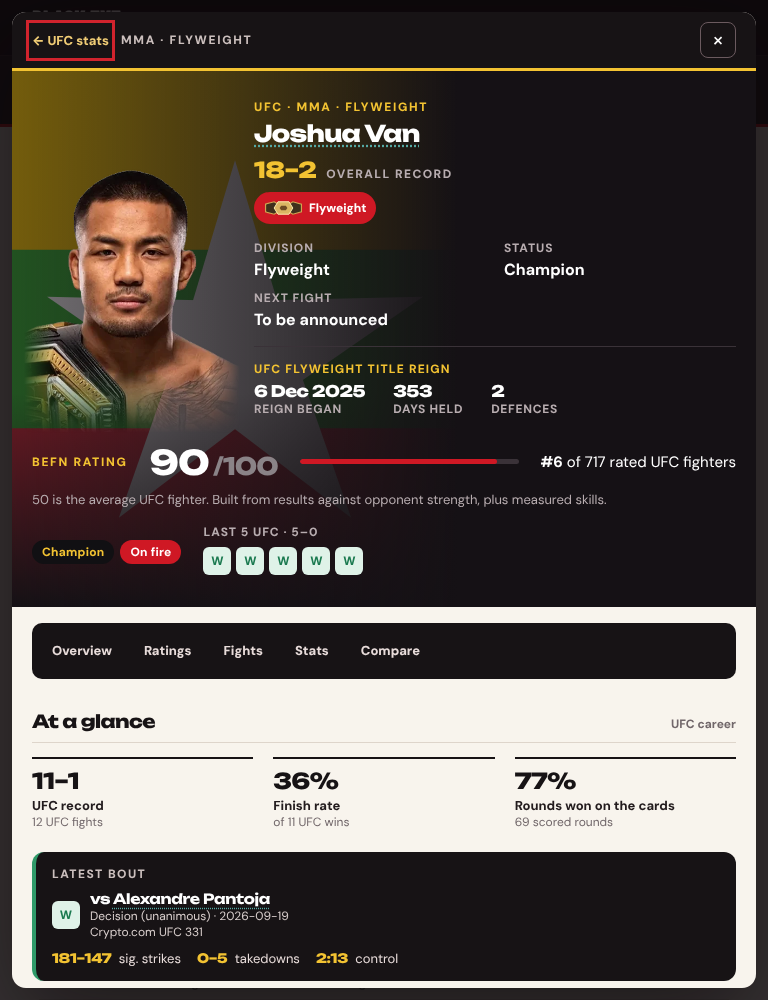
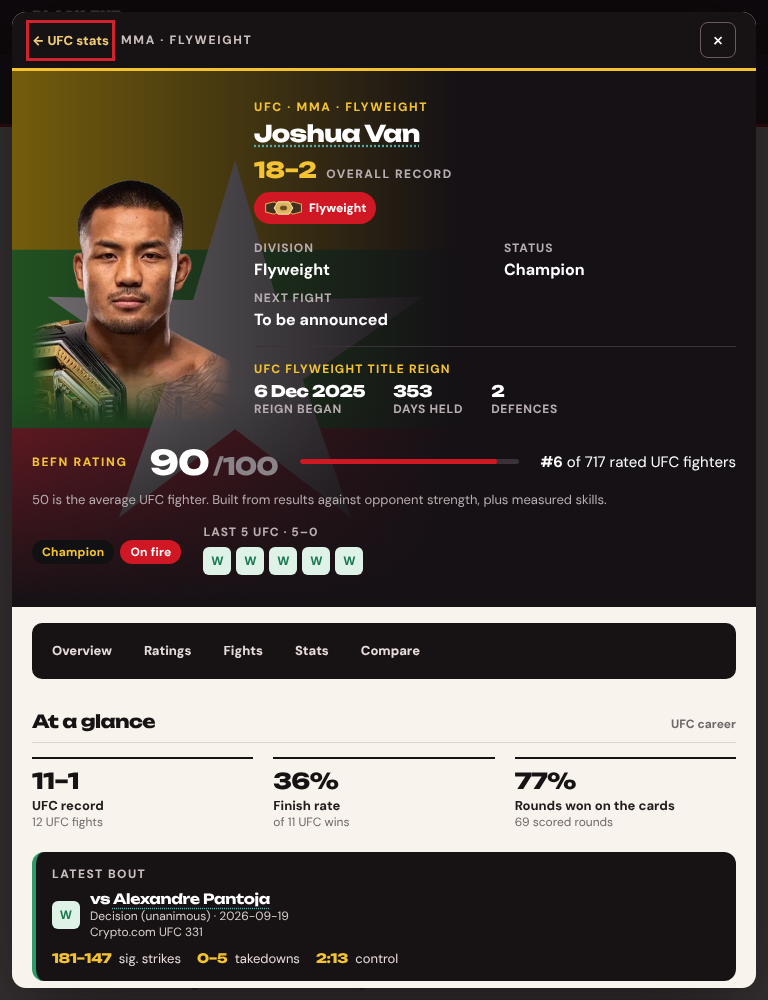
Profile hero: show the cutout through the portrait frame
The first version hid the profile's portrait frame and drew the cutout
beside it, which broke the profile QA contract (the frame must show a
loaded image or a labelled "Photo unavailable" fallback, and a broken
image must fall back). The cutout now replaces the frame's own image
(same 4:5 shape), so loading and fallback states work as before.

Claude-Session: https://claude.ai/code/session_01PMM7LcDKtJtpKD8msL3ZwC

Changed region(s): [[0.0312, 0.155, 0.3125, 0.434]]

diff --git a/assets/fighter-profile-pro.css b/assets/fighter-profile-pro.css
@@ -373,18 +373,19 @@
 
 /* Profile hero, option P2 "dark band" (owner, 24 Nov 2026). Only when the fighter has a cutout (.has-cut, set by
    fighter-insights.js): the hero becomes a full-width dark band with a faded half of the fighter's flag behind, and the
-   cutout stands in the photo column, its sides and foot faded so the crop never shows a hard edge.
-   Fighters without a cutout keep the photo hero above. */
+   portrait frame shows the cutout (same 4:5 shape) with its sides and foot faded so the crop never shows a hard edge.
+   The frame and its "Photo unavailable" fallback work exactly as before. Fighters without a cutout keep the photo hero. */
 #fighterDialog.befn-pro-dialog .befn-pro-hero.has-cut{position:relative;overflow:hidden;margin:-16px -20px 0;padding:28px 20px 26px;background:#151115;color:#fff;isolation:isolate}
 #fighterDialog.befn-pro-dialog .befn-pro-hero.has-cut>:not(.befn-hero-cut){position:relative;z-index:1}
 #fighterDialog.befn-pro-dialog .befn-hero-cut{position:absolute;inset:0 auto 0 0;width:46%;z-index:0;pointer-events:none}
 #fighterDialog.befn-pro-dialog .befn-hero-flag{position:absolute;inset:0;width:100%;height:100%;object-fit:cover;opacity:.45}
 #fighterDialog.befn-pro-dialog .befn-hero-cut::after{content:"";position:absolute;inset:0;background:linear-gradient(90deg,rgba(21,17,21,.1) 0%,#151115 100%),linear-gradient(0deg,#151115 0%,rgba(21,17,21,0) 40%)}
-#fighterDialog.befn-pro-dialog .has-cut .befn-pro-photo{position:relative;min-height:310px;align-self:stretch}
-#fighterDialog.befn-pro-dialog .has-cut .befn-pro-photo>:not(.befn-hero-figure){display:none!important}
-#fighterDialog.befn-pro-dialog .befn-hero-figure{position:absolute;bottom:-26px;left:50%;transform:translateX(-50%);width:auto;height:330px;max-width:none;
+#fighterDialog.befn-pro-dialog .has-cut .befn-pro-photo{margin-bottom:-26px}
+#fighterDialog.befn-pro-dialog .has-cut .befn-pro-photo [data-fighter-portrait]{background:none}
+#fighterDialog.befn-pro-dialog .has-cut .befn-pro-photo [data-fighter-portrait]>img{object-fit:contain;object-position:50% 100%;mix-blend-mode:normal;
  -webkit-mask-image:linear-gradient(90deg,transparent 0,#000 14%,#000 86%,transparent 100%),linear-gradient(0deg,transparent 0,#000 24%);-webkit-mask-composite:source-in;
  mask-image:linear-gradient(90deg,transparent 0,#000 14%,#000 86%,transparent 100%),linear-gradient(0deg,transparent 0,#000 24%);mask-composite:intersect}
+#fighterDialog.befn-pro-dialog .has-cut .befn-portrait-fallback{color:#b8adb0}
 #fighterDialog.befn-pro-dialog .has-cut .befn-pro-eyebrow{color:#f3c332}
 #fighterDialog.befn-pro-dialog .has-cut .befn-pro-id h2,#fighterDialog.befn-pro-dialog .has-cut .befn-pro-id h2 .fighter-mention{color:#fff!important;-webkit-text-fill-color:#fff!important}
 #fighterDialog.befn-pro-dialog .has-cut .befn-pro-record strong{color:#f3c332}
@@ -397,16 +398,14 @@
 #fighterDialog.befn-pro-dialog .has-cut a{color:inherit}
 @media (max-width:980px){
  #fighterDialog.befn-pro-dialog .befn-hero-cut{width:60%}
- #fighterDialog.befn-pro-dialog .has-cut .befn-pro-photo{min-height:260px;align-self:end}
- #fighterDialog.befn-pro-dialog .befn-hero-figure{height:270px;bottom:0}
+ #fighterDialog.befn-pro-dialog .has-cut .befn-pro-photo{margin-bottom:0}
 }
 /* Phone: the figure gets its own row at the top of the band; name, record and the rest run full width beneath. */
 @media (max-width:640px){
- #fighterDialog.befn-pro-dialog .befn-pro-hero.has-cut{margin:-12px -12px 0;padding:0 12px 18px}
- #fighterDialog.befn-pro-dialog .has-cut .befn-pro-photo{grid-column:1/-1;grid-row:auto;min-height:230px;margin:0}
+ #fighterDialog.befn-pro-dialog .befn-pro-hero.has-cut{margin:-12px -12px 0;padding:6px 12px 18px}
+ #fighterDialog.befn-pro-dialog .has-cut .befn-pro-photo{grid-column:1/-1;grid-row:auto;width:190px;margin:0 auto}
  #fighterDialog.befn-pro-dialog .has-cut .befn-pro-id>*{grid-column:1/-1}
- #fighterDialog.befn-pro-dialog .befn-hero-cut{inset:0 0 auto 0;width:100%;height:230px}
+ #fighterDialog.befn-pro-dialog .befn-hero-cut{inset:0 0 auto 0;width:100%;height:244px}
  #fighterDialog.befn-pro-dialog .befn-hero-flag{width:70%}
  #fighterDialog.befn-pro-dialog .befn-hero-cut::after{background:linear-gradient(90deg,rgba(21,17,21,.1) 0%,#151115 70%),linear-gradient(0deg,#151115 0%,rgba(21,17,21,0) 45%)}
- #fighterDialog.befn-pro-dialog .befn-hero-figure{height:222px}
 }

diff --git a/assets/fighter-insights.js b/assets/fighter-insights.js
@@ -1274,23 +1274,27 @@
  // Sumo-style profile shell: lift the rating panel into the hero slot and
  // show only the section tabs whose sections exist for this fighter.
  // Profile hero, option P2 "dark band" (owner, 24 Nov 2026): a UFC fighter with a cutout stands in a dark band over a
- // faded half of their flag. Everyone else keeps the photo hero. `force` redraws once the country list arrives.
+ // faded half of their flag. The cutout is shown through the profile's own portrait frame (its image is swapped for the
+ // cutout), so the frame's loaded / "Photo unavailable" fallback states keep working as before. Everyone else keeps the
+ // photo hero. `force` redraws once the country list arrives.
  function heroCutout(force){
   const hero=document.querySelector('#fighterDialog.befn-pro-dialog .befn-pro-hero');
   const name=hero?.querySelector('.befn-pro-id h2')?.textContent.trim()||"";
-  if(!hero||!name)return;
+  const frame=hero?.querySelector('.befn-pro-photo [data-fighter-portrait]');
+  if(!hero||!name||!frame)return;
   const slug=/^UFC\b/.test(hero.querySelector('.befn-pro-eyebrow')?.textContent||"")?slugOf(name):"";
-  const clear=()=>{hero.classList.remove('has-cut');hero.querySelectorAll('.befn-hero-cut,.befn-hero-figure').forEach(x=>x.remove());delete hero.dataset.cut;};
-  if(!slug||cutoutRegister?.[slug]?.ok!==true){clear();return;}
+  if(!slug||cutoutRegister?.[slug]?.ok!==true){hero.classList.remove('has-cut');hero.querySelector(':scope > .befn-hero-cut')?.remove();return;}
   if(hero.dataset.cut===slug&&!force)return;
-  clear();
   hero.dataset.cut=slug;
   const cc=fighterCountries?.[window.BEFNSnapshotTiles?.fold(name)||""];
+  hero.querySelector(':scope > .befn-hero-cut')?.remove();
   hero.classList.add('has-cut');
-  // The flag is the band's backdrop; the figure goes in the photo column so it follows the column at every width.
   hero.insertAdjacentHTML('afterbegin','<div class="befn-hero-cut" aria-hidden="true">'+
    (/^[a-z]{2}$/.test(cc||"")?'<img class="befn-hero-flag" src="assets/img/flags/'+cc+'.svg" alt="" onerror="this.remove()">':'')+'</div>');
-  hero.querySelector('.befn-pro-photo')?.insertAdjacentHTML('beforeend','<img class="befn-hero-figure" src="assets/img/ufc-cutouts/'+escapeHTML(slug)+'.webp" alt="" aria-hidden="true" onerror="var h=this.closest(\'.befn-pro-hero\');if(h){h.classList.remove(\'has-cut\');h.querySelector(\'.befn-hero-cut\')?.remove();}this.remove()">');
+  let img=frame.querySelector('img');
+  if(!img){img=document.createElement('img');img.alt='Photograph of '+name;frame.appendChild(img);}
+  const src='assets/img/ufc-cutouts/'+slug+'.webp';
+  if(img.getAttribute('src')!==src){frame.classList.remove('is-loaded');img.classList.remove('is-error');img.removeAttribute('referrerpolicy');img.src=src;}
  }
  function layoutProDialog(){
   const dialog=document.querySelector('#fighterDialog.befn-pro-dialog');

diff --git a/docs/design/DECISIONS.md b/docs/design/DECISIONS.md
@@ -3,7 +3,7 @@
 Format: date — decision — who — where it shows up.
 
 ## 2026-11-24 (Profile hero: dark band)
-- **UFC fighter profiles with a cutout open on a dark band (owner chose P2 of three mock-ups: P1 disc, P2 dark band, P3 flag backdrop).** The profile hero becomes a full-width dark band, the pattern DIRECTION already names for athlete profiles ("dark hero band with photo faded into it"). The fighter's cutout stands in the photo column over a faded half of their flag; the cutout's sides and foot are faded with a mask so the head-and-shoulders crop never shows a hard edge. Name in white, record in gold, the rating panel and title reign recoloured for the dark ground; layout, sections and data are unchanged. At 641-980 px the figure stays in its column above the full-width rating; on phones it gets its own row at the top of the band and everything else runs full width beneath. A fighter with no flag file (e.g. Arman Tsarukyan, no Armenian flag held) gets the plain dark band; a fighter with no cutout (e.g. Amanda Nunes) and every non-UFC profile keep today's photo hero. Only UFC profiles are affected (the hero's eyebrow starts "UFC"). Ownership note: `FIGHTERS-HUB-FORM.md` gives the profile to the ratings chat; the owner chose to build this here. — Owner (picked "P2 · Dark band") — awaiting owner "Merge N".
+- **UFC fighter profiles with a cutout open on a dark band (owner chose P2 of three mock-ups: P1 disc, P2 dark band, P3 flag backdrop).** The profile hero becomes a full-width dark band, the pattern DIRECTION already names for athlete profiles ("dark hero band with photo faded into it"). The fighter's cutout is shown through the profile's own portrait frame (its image is swapped for the cutout, same 4:5 shape, so the loaded and "Photo unavailable" fallback states and the profile QA keep working) over a faded half of their flag; the cutout's sides and foot are faded with a mask so the head-and-shoulders crop never shows a hard edge. Name in white, record in gold, the rating panel and title reign recoloured for the dark ground; layout, sections and data are unchanged. At 641-980 px the figure stays in its column above the full-width rating; on phones it gets its own row at the top of the band and everything else runs full width beneath. A fighter with no flag file (e.g. Arman Tsarukyan, no Armenian flag held) gets the plain dark band; a fighter with no cutout (e.g. Amanda Nunes) and every non-UFC profile keep today's photo hero. Only UFC profiles are affected (the hero's eyebrow starts "UFC"). Ownership note: `FIGHTERS-HUB-FORM.md` gives the profile to the ratings chat; the owner chose to build this here. — Owner (picked "P2 · Dark band") — awaiting owner "Merge N".
 
 ## 2026-11-24 (Results face-off)
 - **Finished UFC bouts on Results use the face-off too** (owner picked "Face-off on Results" after the upcoming face-off went live). Opening a finished bout's snapshot hides the result row and shows the same layout on a white panel inside the dark result card: one chip (billing, weight class, rounds), a "Final" line with method, round and time, the two figures with the winner tagged "Won" and the loser's picture greyed on a plain disc (flag hidden), records labelled "after the fight", then the tape rows with age on fight night. Height and reach are today's listed values (they rarely change). Below it, or on the right from 1100 px, the existing recent fight history (last five fights and stats). Left out on purpose: the pre-fight analysis and the last-five form pills, because BEFN holds no numbers frozen at fight time and today's last five can include later fights; and the older snapshot's rating bars and credentials, which were today's ratings, not the fight's. Also: when either fighter has a tag (rank, tier, "Won") both get the tag line so the records stay level, and the older snapshot's profile buttons get the same "Vanprofile" fix. Boxing and other sports keep the older snapshot. — Owner (chose it from the options) — awaiting owner "Merge N".
